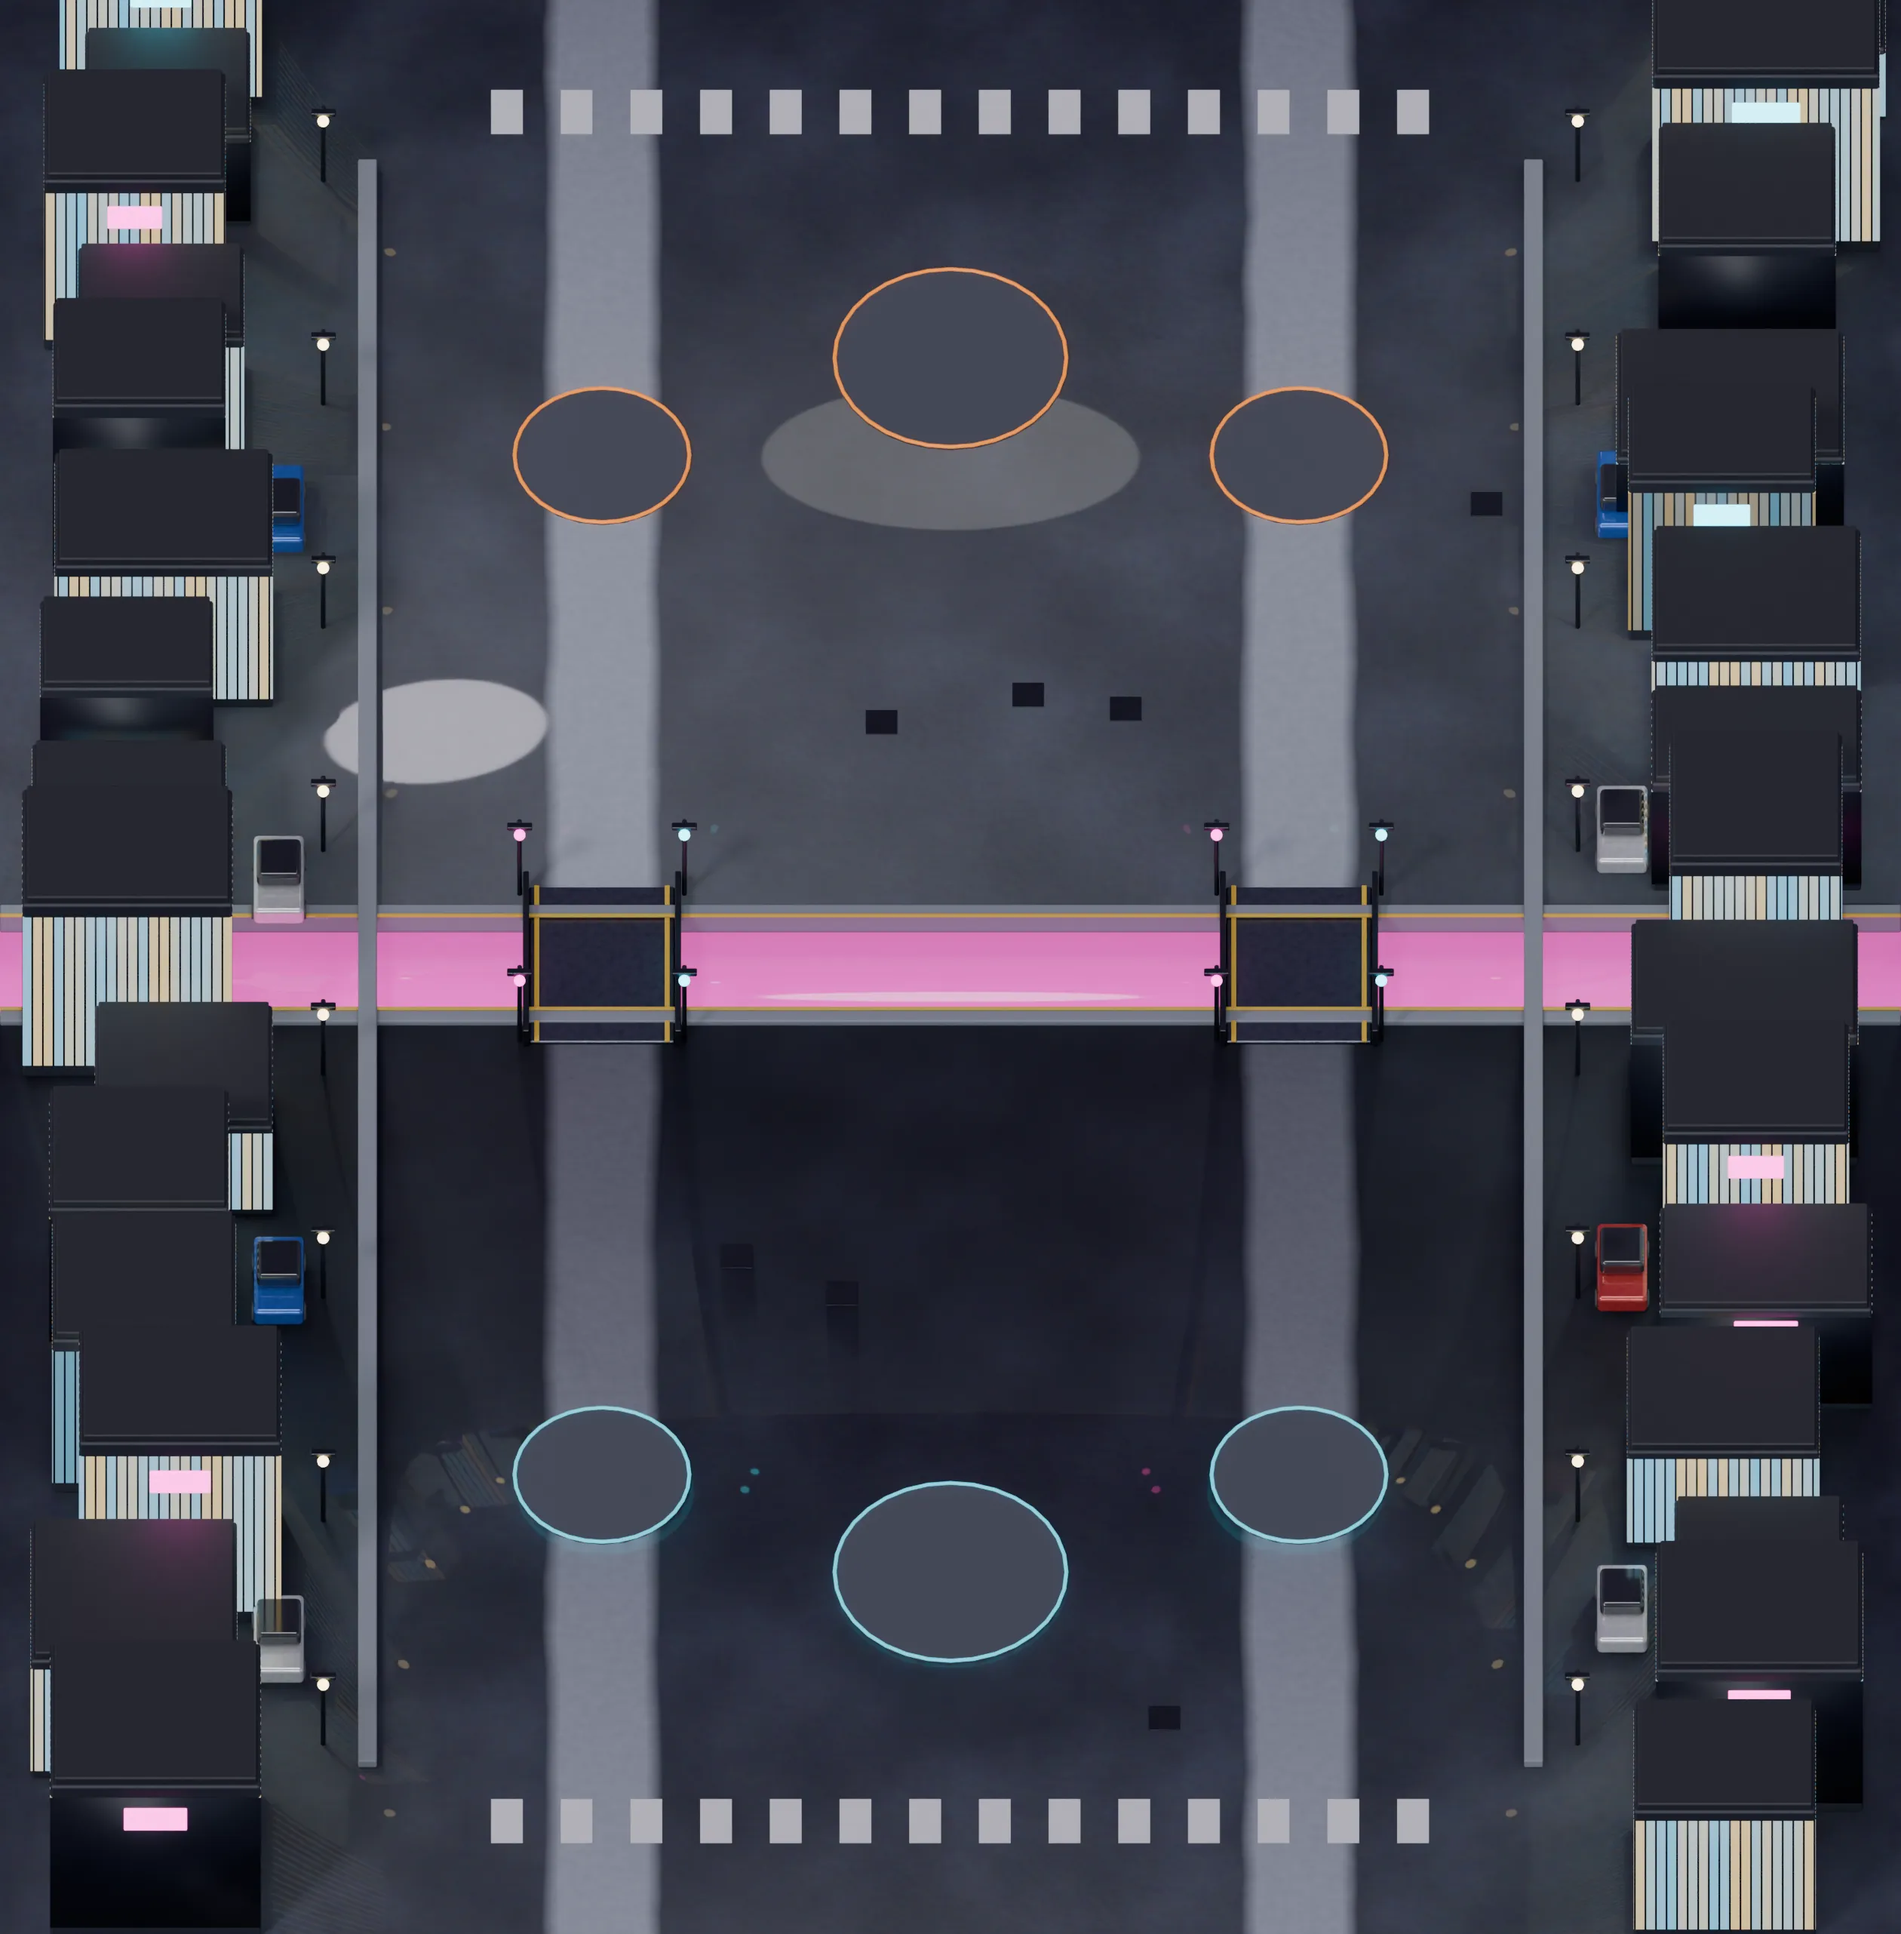
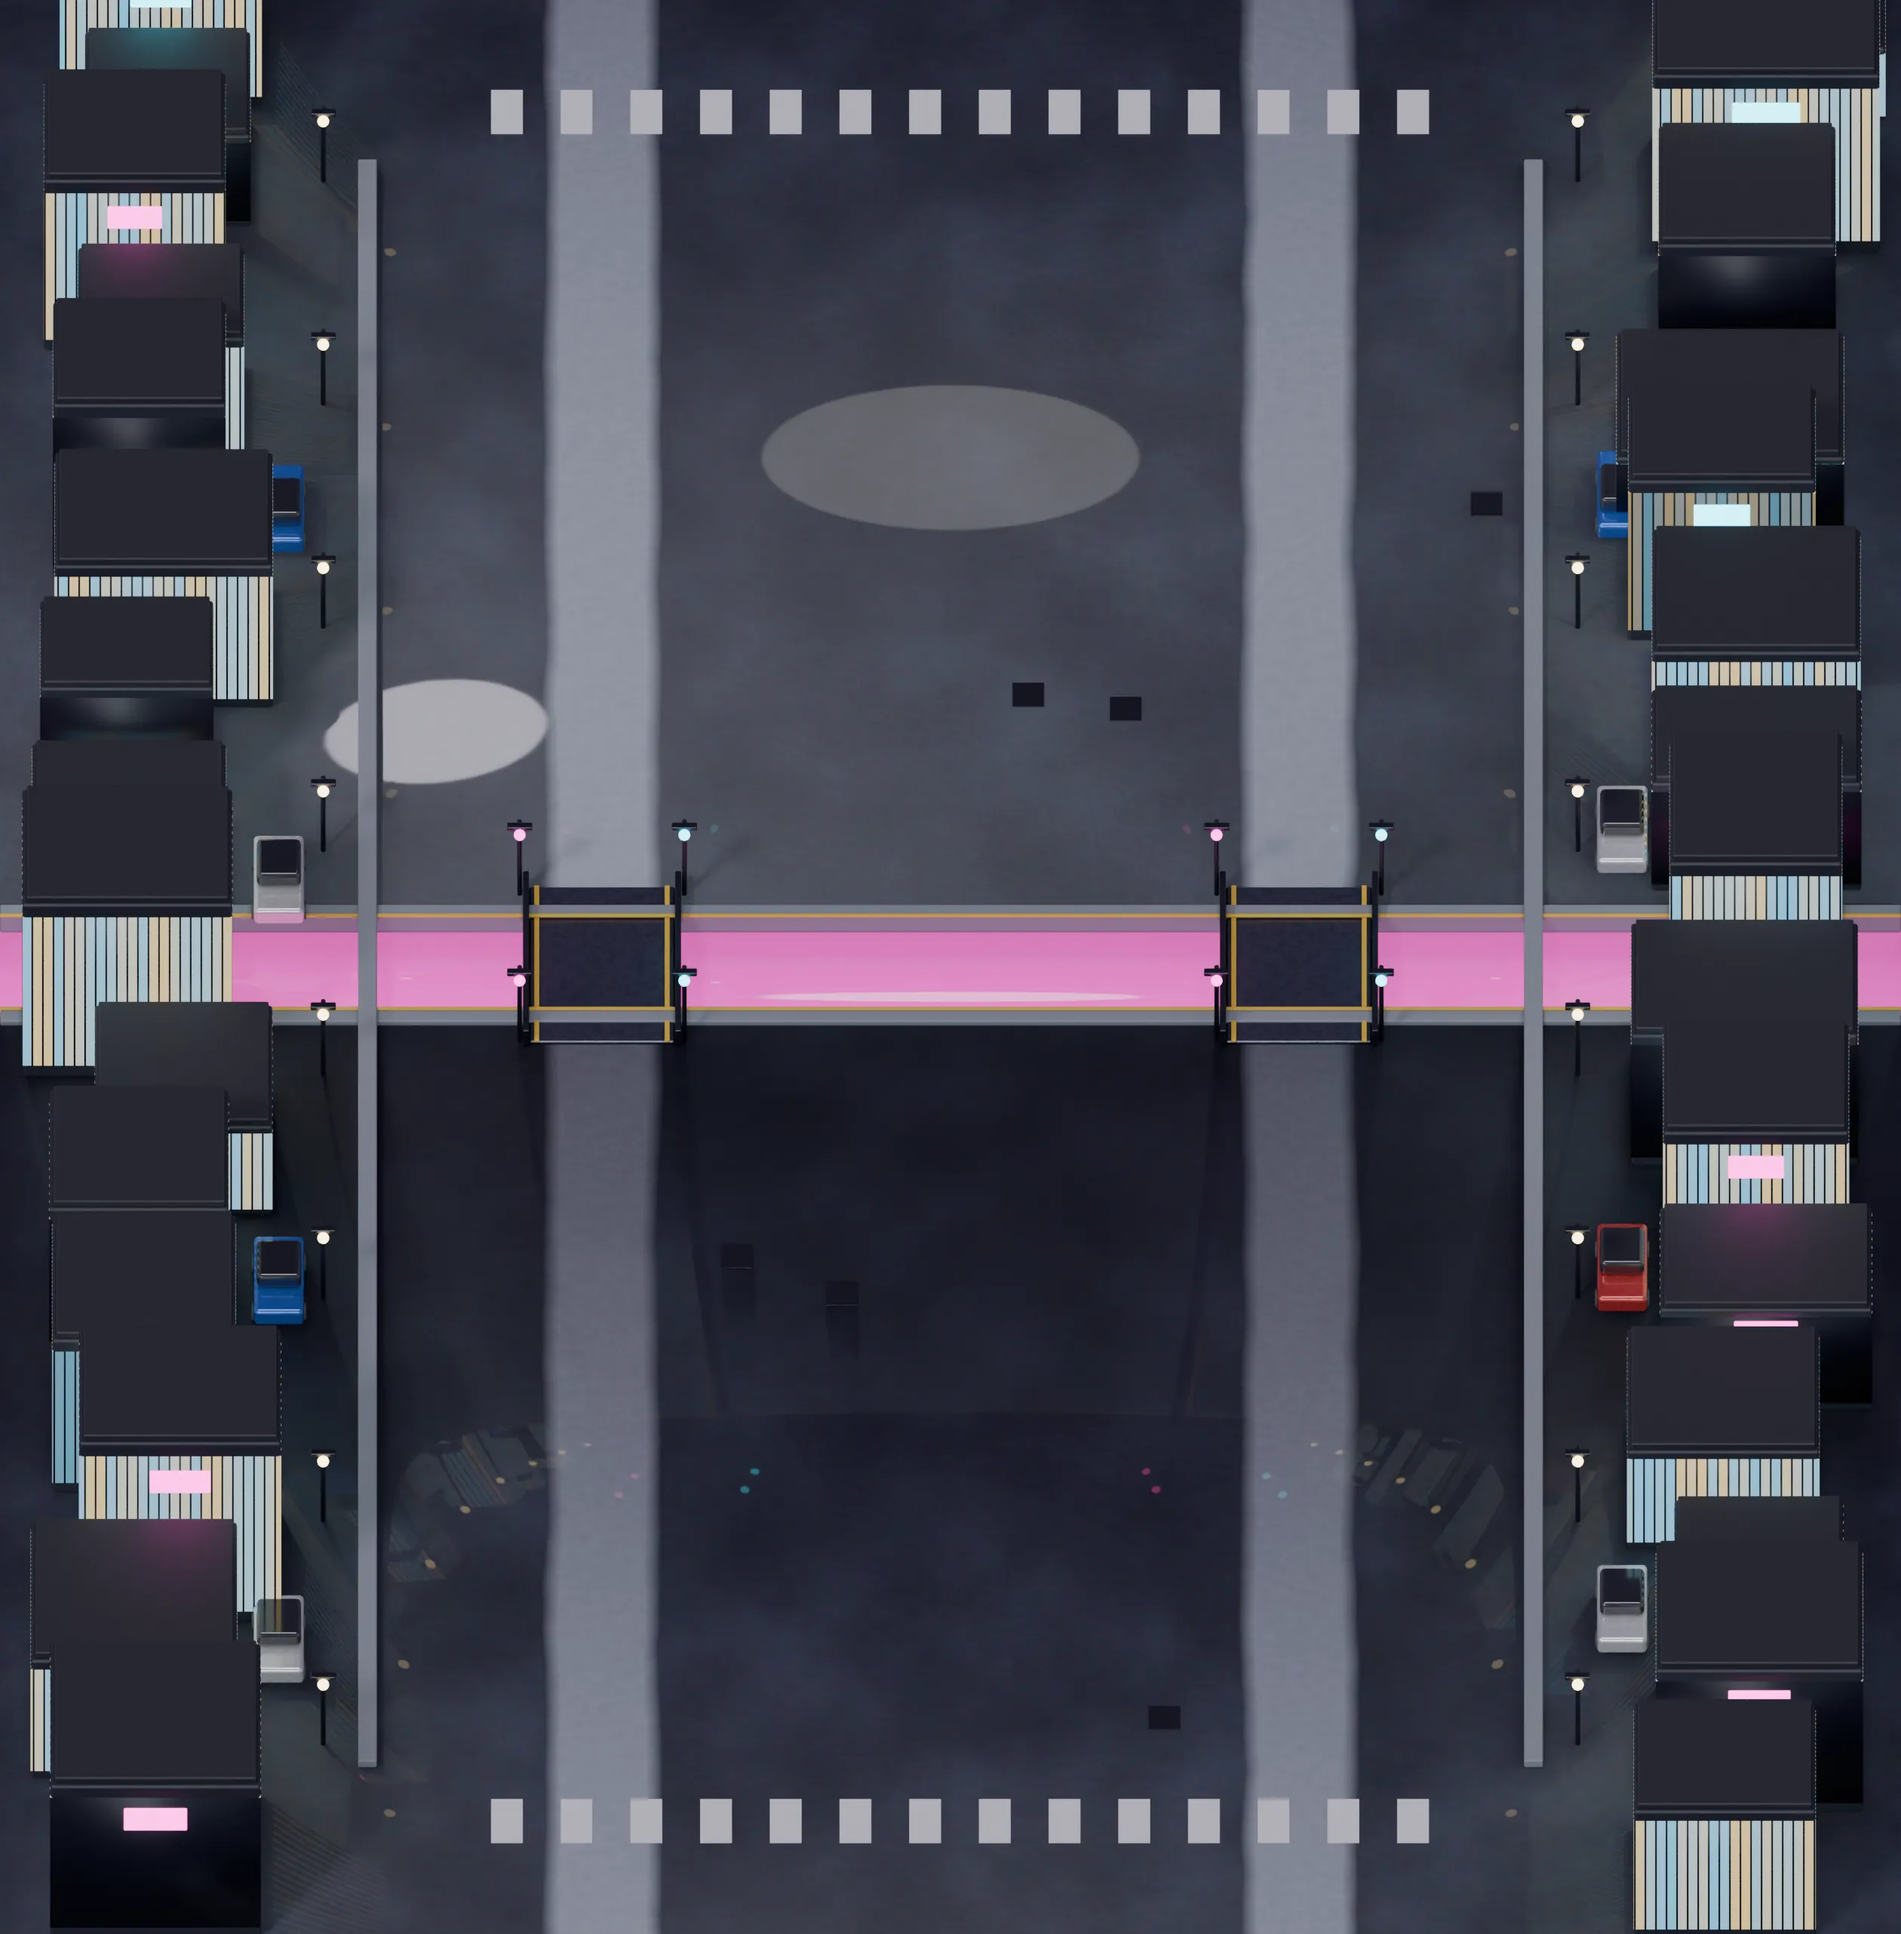
Build fb1a920f4809

diff --git a/js/battle.js b/js/battle.js
@@ -129,9 +129,9 @@
     };
     for (const tm of [0, 1]) {
       const fy = y => tm ? H - y : y;
-      G.ents.push(mkTower(tm, 'guard', 3.5, fy(26.5), 0, tm ? cmdAi : cmdMe));
-      G.ents.push(mkTower(tm, 'guard', 14.5, fy(26.5), 1, tm ? cmdAi : cmdMe));
-      G.ents.push(mkTower(tm, 'king', 9, fy(28.5), -1, tm ? cmdAi : cmdMe));
+      G.ents.push(mkTower(tm, 'guard', 3.5, fy(28), 0, tm ? cmdAi : cmdMe));
+      G.ents.push(mkTower(tm, 'guard', 14.5, fy(28), 1, tm ? cmdAi : cmdMe));
+      G.ents.push(mkTower(tm, 'king', 9, fy(29.6), -1, tm ? cmdAi : cmdMe));
     }
     renderHand(); layout(); buildBg();
     B.running = true; last = performance.now(); acc = 0;
@@ -605,9 +605,9 @@
       ai: { think: 1.5, lvl: opt.enemy.skill }, ai0: { think: 1.5, lvl: opt.skill }, arena: 0, sim: true };
     for (const tm of [0, 1]) {
       const fy = y => tm ? H - y : y;
-      G.ents.push(mkTower(tm, 'guard', 3.5, fy(26.5), 0, tm ? opt.enemy.cmd : opt.cmd));
-      G.ents.push(mkTower(tm, 'guard', 14.5, fy(26.5), 1, tm ? opt.enemy.cmd : opt.cmd));
-      G.ents.push(mkTower(tm, 'king', 9, fy(28.5), -1, tm ? opt.enemy.cmd : opt.cmd));
+      G.ents.push(mkTower(tm, 'guard', 3.5, fy(28), 0, tm ? opt.enemy.cmd : opt.cmd));
+      G.ents.push(mkTower(tm, 'guard', 14.5, fy(28), 1, tm ? opt.enemy.cmd : opt.cmd));
+      G.ents.push(mkTower(tm, 'king', 9, fy(29.6), -1, tm ? opt.enemy.cmd : opt.cmd));
     }
     let res = null; opt.onEnd = r => { res = r; };
     let n = 0;
@@ -643,9 +643,9 @@
     VW = box.width; VH = box.height;
     c.width = Math.round(VW * DPR); c.height = Math.round(VH * DPR); c.style.width = VW + 'px'; c.style.height = VH + 'px';
     ctx = c.getContext('2d');
-    const needH = H * CB.SIN + 2.6;   // arena plus room for tall sprites at the top
+    const needH = H * CB.SIN + 3.4;   // arena plus room for the back towers' sprites and health bars at the top
     T = Math.min(VW / (W + 0.6), VH / needH);
-    OX = (VW - W * T) / 2; OY = (VH - H * T * CB.SIN) / 2 + T * 0.9;
+    OX = (VW - W * T) / 2; OY = (VH - H * T * CB.SIN) / 2 + T * 1.45;
   }
   B.layout = () => { if (G) { layout(); buildBg(); } };
 
@@ -728,6 +728,13 @@
     }
     G.scorch = G.scorch.filter(s => !s.done);
     drawPlacement(c);
+    // tower pads: a dark stone ring with the team's light
+    for (const e of G.ents) if (e.kind === 'tower') {
+      const rx = (e.r + 0.15) * T, ry = rx * CB.SIN, tc = TCOL(e.team);
+      c.fillStyle = 'rgba(10,12,16,.35)'; c.beginPath(); c.ellipse(sx(e.x), sy(e.y), rx, ry, 0, 0, 7); c.fill();
+      c.strokeStyle = 'rgba(0,0,0,.45)'; c.lineWidth = T * 0.16; c.beginPath(); c.ellipse(sx(e.x), sy(e.y), rx * 0.96, ry * 0.96, 0, 0, 7); c.stroke();
+      c.strokeStyle = tc[0]; c.globalAlpha = e.alive ? 0.75 : 0.25; c.lineWidth = Math.max(1.5, T * 0.07); c.beginPath(); c.ellipse(sx(e.x), sy(e.y), rx * 0.96, ry * 0.96, 0, 0, 7); c.stroke(); c.globalAlpha = 1;
+    }
     for (const d of G.decals) B.drawSprite(c, d.sub === 'king' ? 'kingx' : 'guardx', TEAM[d.team], 'i0', 0, sx(d.x), sy(d.y), T * 0.85);
     // shadows + team rings under every robot
     for (const e of G.ents) if (e.alive && e.kind !== 'tower') {

diff --git a/js/sheets.js b/js/sheets.js
@@ -1,4 +1,4 @@
 // Written by tools/stitch.py
 CB.SHEETS = {"sentinel": {"fw": 311, "fh": 309, "ax": 152.0, "ay": 210.26160000000002, "ppm": 88.39999999999999, "labels": ["i0", "i1", "i2", "i3", "w0", "w1", "w2", "w3", "w4", "w5", "w6", "w7", "a0", "a1", "a2", "a3", "a4", "a5"], "dirs": 5, "v": "748e0e146f"}, "blaster": {"fw": 194, "fh": 212, "ax": 77.5, "ay": 159.04579999999999, "ppm": 88.39999999999999, "labels": ["i0", "i1", "i2", "i3", "w0", "w1", "w2", "w3", "w4", "w5", "w6", "w7", "a0", "a1", "a2", "a3", "a4", "a5"], "dirs": 5, "v": "091859cf96"}, "spider": {"fw": 138, "fh": 136, "ax": 69.0, "ay": 78.3712, "ppm": 88.39999999999999, "labels": ["i0", "i1", "i2", "i3", "w0", "w1", "w2", "w3", "w4", "w5", "w6", "w7", "a0", "a1", "a2", "a3", "a4", "a5"], "dirs": 5, "v": "5d4ffc2c12"}, "turret": {"fw": 158, "fh": 167, "ax": 58.5, "ay": 122.04829999999998, "ppm": 88.39999999999999, "labels": ["i0", "i1", "i2", "i3", "a0", "a1", "a2", "a3", "a4", "a5"], "dirs": 5, "v": "e630451388"}, "jet": {"fw": 188, "fh": 167, "ax": 95.0, "ay": 113.44800000000001, "ppm": 88.39999999999999, "labels": ["i0", "i1", "i2", "i3", "w0", "w1", "w2", "w3", "w4", "w5", "w6", "w7", "a0", "a1", "a2", "a3", "a4", "a5"], "dirs": 5, "v": "86f410ef99"}, "medic": {"fw": 199, "fh": 199, "ax": 99.5, "ay": 139.29999999999998, "ppm": 88.39999999999999, "labels": ["i0", "i1", "i2", "i3", "w0", "w1", "w2", "w3", "w4", "w5", "w6", "w7", "a0", "a1", "a2", "a3", "a4", "a5"], "dirs": 5, "v": "db8d9016dd"}, "titan": {"fw": 230, "fh": 298, "ax": 114.0, "ay": 242.5706, "ppm": 88.39999999999999, "labels": ["i0", "i1", "i2", "i3", "w0", "w1", "w2", "w3", "w4", "w5", "w6", "w7", "a0", "a1", "a2", "a3", "a4", "a5"], "dirs": 5, "v": "e6dc8c6bda"}, "rocket": {"fw": 143, "fh": 200, "ax": 71.0, "ay": 150.9048, "ppm": 88.39999999999999, "labels": ["i0", "i1", "i2", "i3", "w0", "w1", "w2", "w3", "w4", "w5", "w6", "w7", "a0", "a1", "a2", "a3", "a4", "a5"], "dirs": 5, "v": "fb7fd77607"}, "hound": {"fw": 169, "fh": 199, "ax": 62.0, "ay": 122.41920000000002, "ppm": 88.39999999999999, "labels": ["i0", "i1", "i2", "i3", "w0", "w1", "w2", "w3", "w4", "w5", "w6", "w7", "a0", "a1", "a2", "a3", "a4", "a5"], "dirs": 5, "v": "3f423a2f7e"}, "colossus": {"fw": 316, "fh": 328, "ax": 135.5, "ay": 268.55760000000004, "ppm": 88.39999999999999, "labels": ["i0", "i1", "i2", "i3", "w0", "w1", "w2", "w3", "w4", "w5", "w6", "w7", "a0", "a1", "a2", "a3", "a4", "a5"], "dirs": 5, "v": "fe6695a146"}, "guard": {"fw": 274, "fh": 326, "ax": 133.0, "ay": 221.41359999999997, "ppm": 88.39999999999999, "labels": ["i0", "a0", "a1"], "dirs": 5, "v": "5b89f80f90"}, "king": {"fw": 356, "fh": 411, "ax": 170.5, "ay": 278.8435, "ppm": 88.39999999999999, "labels": ["i0", "a0", "a1"], "dirs": 5, "v": "7cbb4842a7"}, "guardx": {"fw": 266, "fh": 228, "ax": 133.0, "ay": 123.41359999999997, "ppm": 88.39999999999999, "labels": ["i0"], "dirs": 1, "v": "5d3f1abcde"}, "kingx": {"fw": 341, "fh": 283, "ax": 170.5, "ay": 150.8435, "ppm": 88.39999999999999, "labels": ["i0"], "dirs": 1, "v": "64a04d0cbf"}};
 CB.ARENA_META = {"ppm": 84, "cx": 1260.0, "cy": 1281.5};
-CB.ARENA_V = "dd06f5ce4a";
+CB.ARENA_V = "9cd025fbd5";

diff --git a/sw.js b/sw.js
@@ -1,5 +1,5 @@
 // Core Breakers offline helper. VERSION changes with every build so updates arrive on their own.
-const VERSION = 'cb-a4b3bba9eff7';
+const VERSION = 'cb-fb1a920f4809';
 const CORE = ["art/arena_0.webp","art/arena_1.webp","art/arena_2.webp","art/arena_3.webp","art/arena_4.webp","art/blaster_blue.webp","art/blaster_red.webp","art/card_blaster.webp","art/card_colossus.webp","art/card_hound.webp","art/card_jet.webp","art/card_medic.webp","art/card_rocket.webp","art/card_sentinel.webp","art/card_spider.webp","art/card_titan.webp","art/card_turret.webp","art/colossus_blue.webp","art/colossus_red.webp","art/guard_blue.webp","art/guard_red.webp","art/guardx_blue.webp","art/guardx_red.webp","art/hound_blue.webp","art/hound_red.webp","art/jet_blue.webp","art/jet_red.webp","art/king_blue.webp","art/king_red.webp","art/kingx_blue.webp","art/kingx_red.webp","art/medic_blue.webp","art/medic_red.webp","art/rocket_blue.webp","art/rocket_red.webp","art/sentinel_blue.webp","art/sentinel_red.webp","art/spider_blue.webp","art/spider_red.webp","art/titan_blue.webp","art/titan_red.webp","art/turret_blue.webp","art/turret_red.webp","icon-180.png","icon-512.png","index.html","js/battle.js","js/boot.js","js/data.js","js/progress.js","js/qrcode-gen.js","js/sheets.js","js/ui.js","manifest.webmanifest","style.css","./"];
 self.addEventListener('install', e => { e.waitUntil(caches.open(VERSION).then(c => c.addAll(CORE)).then(() => self.skipWaiting())); });
 self.addEventListener('activate', e => {

diff --git a/js/data.js b/js/data.js
@@ -66,7 +66,7 @@ CB.CARD_ORDER = ['sentinel', 'blaster', 'spider', 'turret', 'jet', 'emp', 'titan
 CB.START_DECK = ['sentinel', 'blaster', 'spider', 'turret', 'jet', 'emp', 'titan', 'missile'];
 
 CB.TOWERS = {
-  guard: { hp: 1500, dmg: 52, hit: 0.8, range: 7.5, radius: 1.45, sprite: 'guard' },
+  guard: { hp: 1500, dmg: 52, hit: 0.8, range: 8.5, radius: 1.45, sprite: 'guard' },
   king:  { hp: 2600, dmg: 60, hit: 1.0, range: 7.0, radius: 1.9, sprite: 'king' },
 };
 
